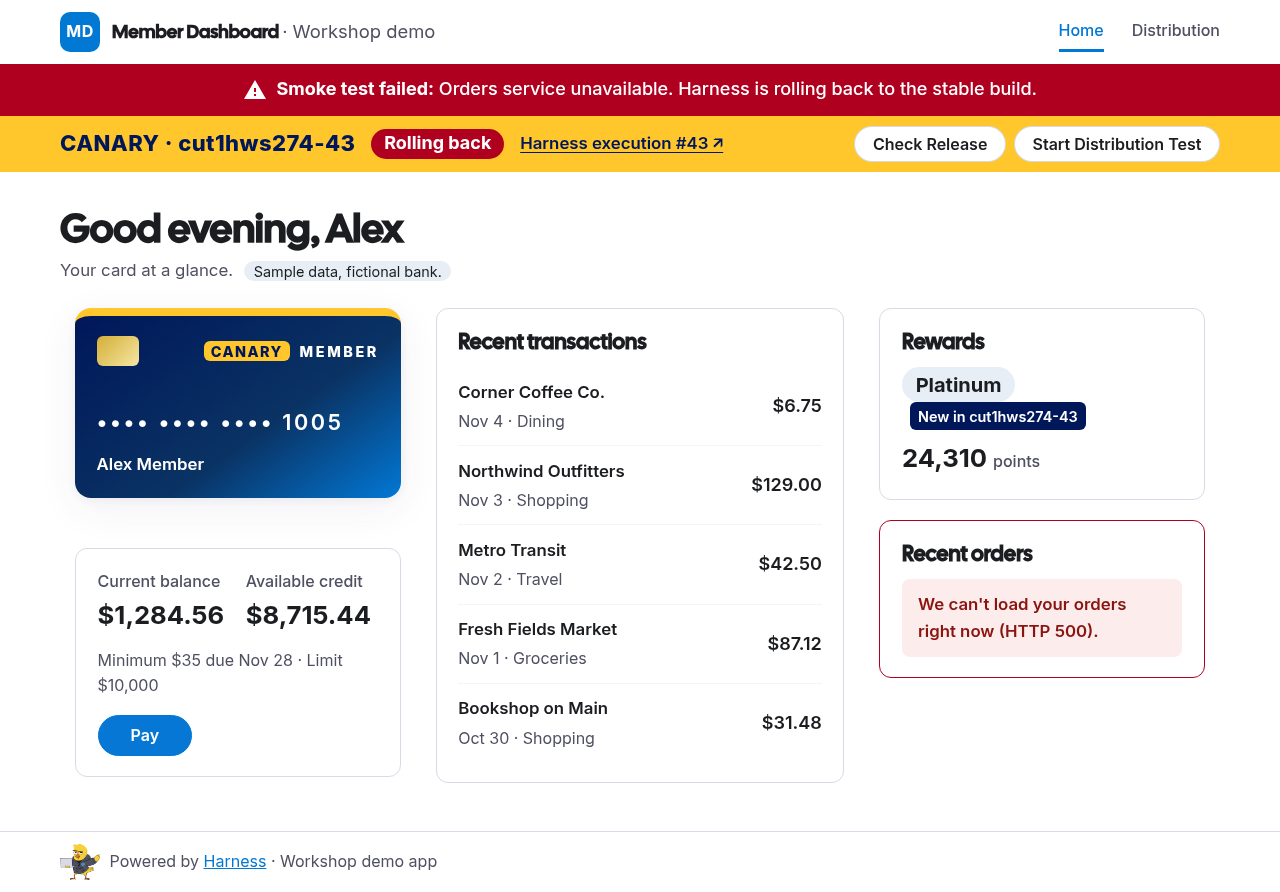
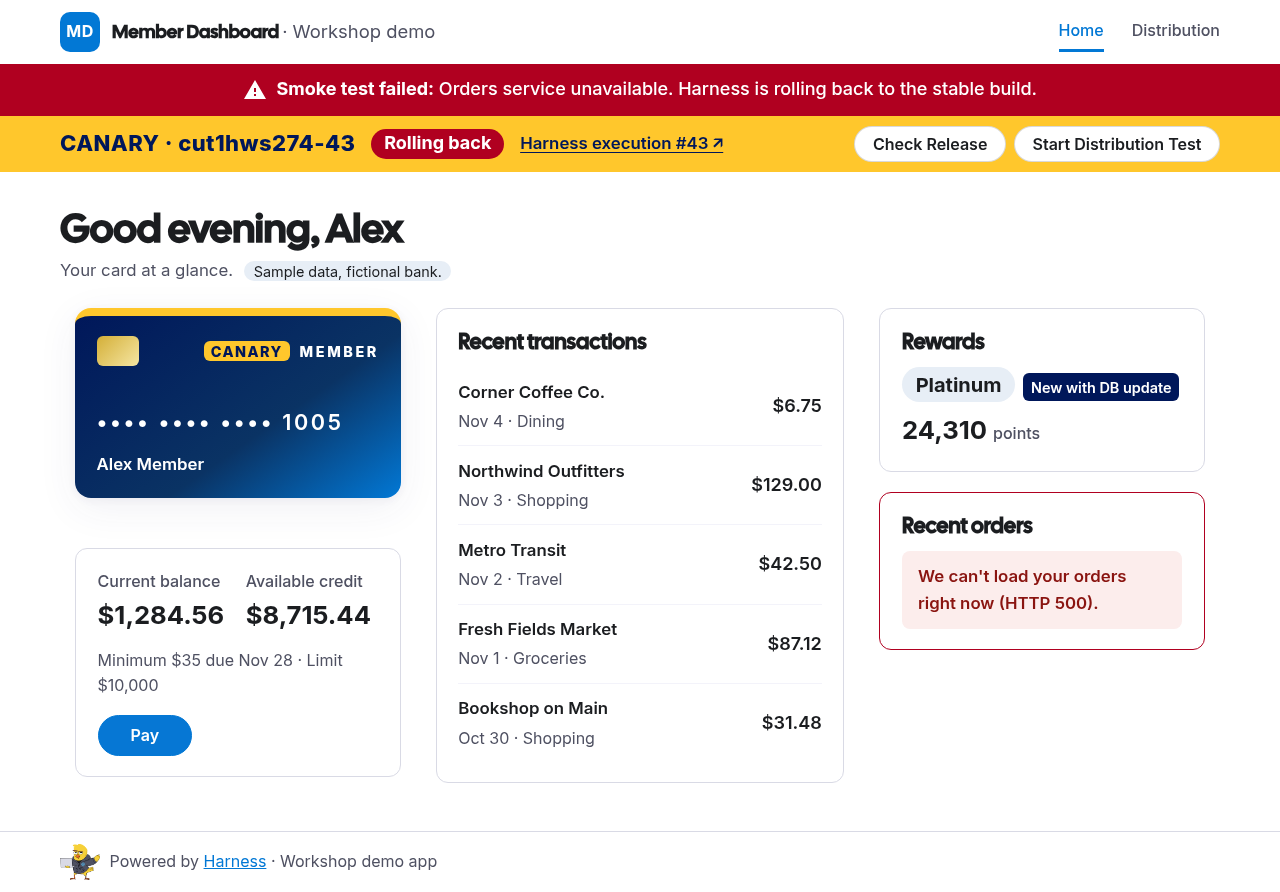
Rewards tag credits the DB update, not the build
rewards_tier comes from the DB3 schema change, so 'New in <build>' (canary only)
was misleading. Show 'New with DB update' whenever the tier is present; update
spec, provenance table and home screenshots.

Changed region(s): [[0.6875, 0.3935, 0.9375, 0.5448], [0.6875, 0.5751, 0.875, 0.7265]]

diff --git a/frontend-app/harness-webapp/src/app/home/home.component.spec.ts b/frontend-app/harness-webapp/src/app/home/home.component.spec.ts
@@ -48,6 +48,9 @@ describe('HomeComponent', () => {
     expect(el.textContent).toContain('Current balance');
     expect(el.textContent).toContain('Recent transactions');
     expect(el.querySelector('.tier-chip')?.textContent).toContain('Platinum');
+    // The tag credits the DB3 schema change, not the build, so stable shows it too.
+    expect(el.querySelector('.new-tag')?.textContent).toContain('New with DB update');
+    expect(el.querySelector('.new-tag')?.textContent).not.toContain('cut1hws274');
     expect(el.textContent).toContain('Trail running shoes');
     expect(Array.from(el.querySelectorAll('button')).map((b) => b.textContent?.trim()))
       .toEqual(jasmine.arrayContaining(['Pay', 'Check Release', 'Start Distribution Test']));
@@ -59,7 +62,7 @@ describe('HomeComponent', () => {
     expect(el.querySelector('.release-bar__label')?.textContent).toContain('CANARY · cut1hws274-43');
     expect(el.querySelector('.state-chip--bad')?.textContent).toContain('Rolling back');
     expect(el.querySelector('.orders-error')?.textContent).toContain('HTTP 500');
-    expect(el.querySelector('.new-tag')?.textContent).toContain('New in cut1hws274-43');
+    expect(el.querySelector('.new-tag')?.textContent).toContain('New with DB update');
   });
 
   it('says unknown instead of inventing a build or execution', () => {

diff --git a/frontend-app/harness-webapp/src/app/home/home.component.html b/frontend-app/harness-webapp/src/app/home/home.component.html
@@ -86,7 +86,7 @@
         @if (hasRewardsTier) {
           <p class="rewards">
             <span class="tier-chip">{{ member.rewards_tier }}</span>
-            @if (isCanary) { <span class="new-tag">New in {{ buildName }}</span> }
+            <span class="new-tag" title="Added by the DB3 schema change (rewards_tier column), not by the app image">New with DB update</span>
           </p>
         } @else {
           <p class="hint">Your rewards tier appears after the DB3 schema change adds <code>rewards_tier</code>.</p>

diff --git a/docs/app-redesign/README.md b/docs/app-redesign/README.md
@@ -22,6 +22,7 @@ Nothing in the UI code has a fallback build or execution number. When a value is
 | Execution link | `execution_url` | `EXECUTION_URL` | `<+pipeline.executionUrl>` |
 | STABLE / CANARY | `deployment_type` | `HOSTNAME` (pod name) | Kubernetes; Harness canary pods are named `...-canary-...` |
 | Distribution per-response tier/build/pod | `POST /deploy/create` `deployment_type`, `application_version`, `pod` | same as above | same as above |
+| Rewards tier + "New with DB update" | `/deploy/member` `rewards_tier` | none (DB3 column; `DEMO_REWARDS_TIER` locally) | Lab 6 Liquibase change, not the image, so it shows on stable and canary alike |
 | Health chip | `/health`, `/api/orders` | `SMOKE_FAIL` | not set by the pipeline (Lab 13 sets it) |
 
 The backend treats empty, `null` or unresolved `<+...>` values as unset.
